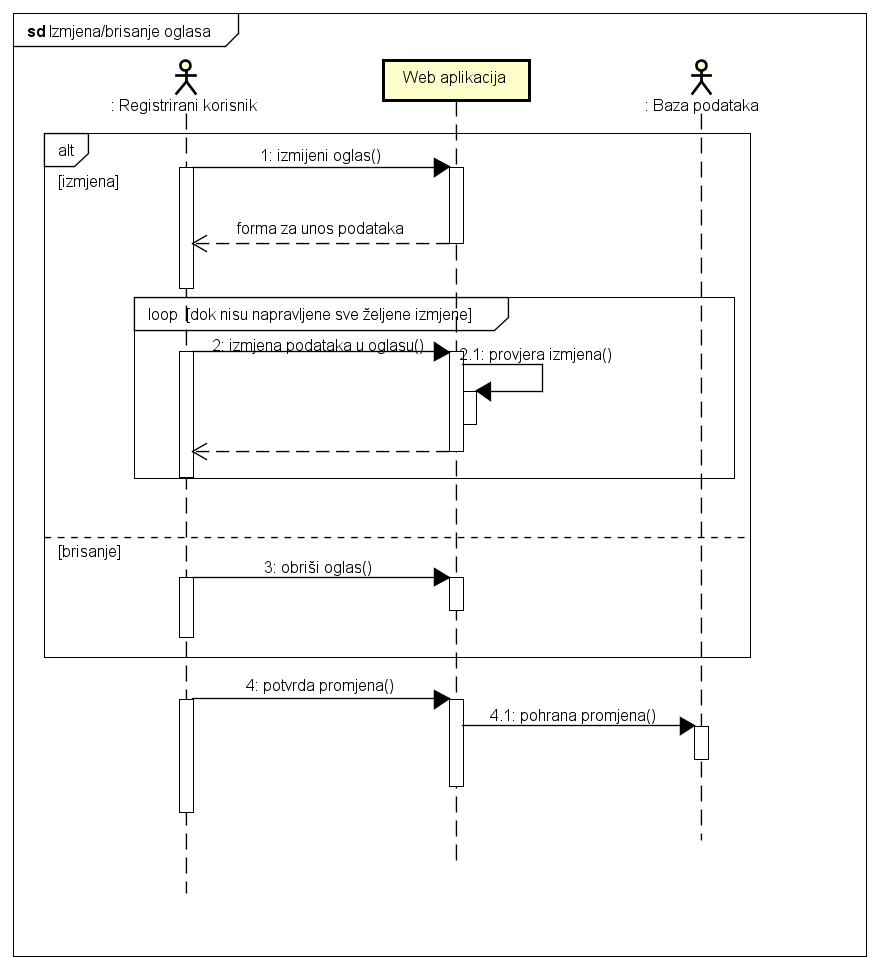
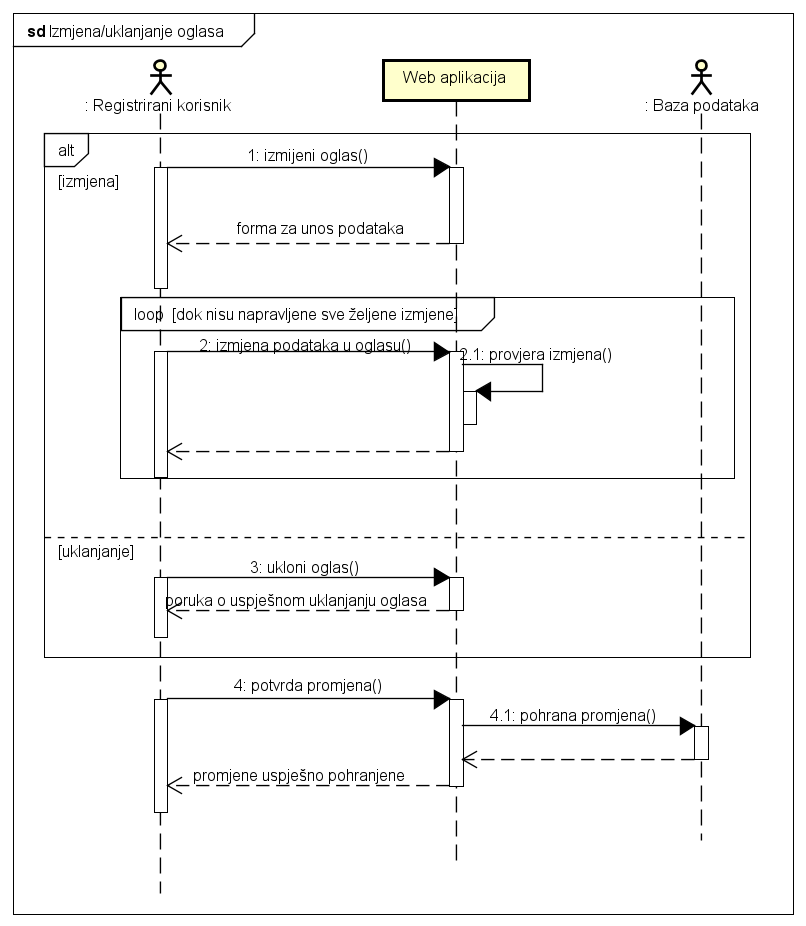
doradjeni seq dijagrami

diff --git a/dokumentacija/Specifikacija_programske_potpore.tex b/dokumentacija/Specifikacija_programske_potpore.tex
@@ -362,25 +362,34 @@
 				\fi
 				
 			\begin{figure}[H]
-				\includegraphics[scale=0.5]{slike/seq_pretrazivanje_pregledavanje_oglasa.PNG} 
+				\includegraphics[scale=0.6]{slike/seq_pretrazivanje_pregled_oglasa.PNG} 
 				\centering
-				\caption{Sekvencijski dijagram pretraživanja i pregledavanja oglasa}
-				\label{seq_pretrazivanje_pregledavanje_oglasa}
+				\caption{Sekvencijski dijagram pretraživanja i pregleda oglasa}
+				\label{seq_pretrazivanje_pregled_oglasa}
 			\end{figure}
 			
+			\noindent\textbf{Obrazac uporabe UC6 - Pretraživanje i pregled oglasa o nestalim ljubimcima}\newline
+			\noindent TODO
+			
 			\begin{figure}[H]
-				\includegraphics[scale=0.5]{slike/seq_postavljanje_oglasa.PNG} 
+				\includegraphics[scale=0.6]{slike/seq_postavljanje_oglasa.PNG} 
 				\centering
 				\caption{Sekvencijski dijagram postavljanja oglasa}
 				\label{seq_postavljanje_oglasa}
 			\end{figure}
 			
+			\noindent\textbf{Obrazac uporabe UC7 - Postavljanje oglasa o nestalom ljubimcu}\newline
+			\noindent TODO			
+			
 			\begin{figure}[H]
-				\includegraphics[scale=0.5]{slike/seq_izmjena_oglasa.PNG} 
+				\includegraphics[scale=0.6]{slike/seq_izmjena_oglasa.PNG} 
 				\centering
 				\caption{Sekvencijski dijagram izmjenjivanja/brisanja oglasa}
 				\label{seq_izmjena_oglasa}
 			\end{figure}
+			
+			\noindent\textbf{Obrasci uporabe UC8 i UC9 - izmjena/uklanjanje oglasa o nestalom ljubimcu}\newline
+			\noindent TODO
 	
 		\section{Ostali zahtjevi}
 		 

diff --git a/dokumentacija/Arhitektura.tex b/dokumentacija/Arhitektura.tex
@@ -83,7 +83,7 @@ Konačno, za pisanje \textit{TypeScript} koda koristi se \textit{IntelliJ}, moć
 				
 		\section{Baza podataka}
 			
-		
+		TODO
 
 			\subsection{Opis tablica}
 			
